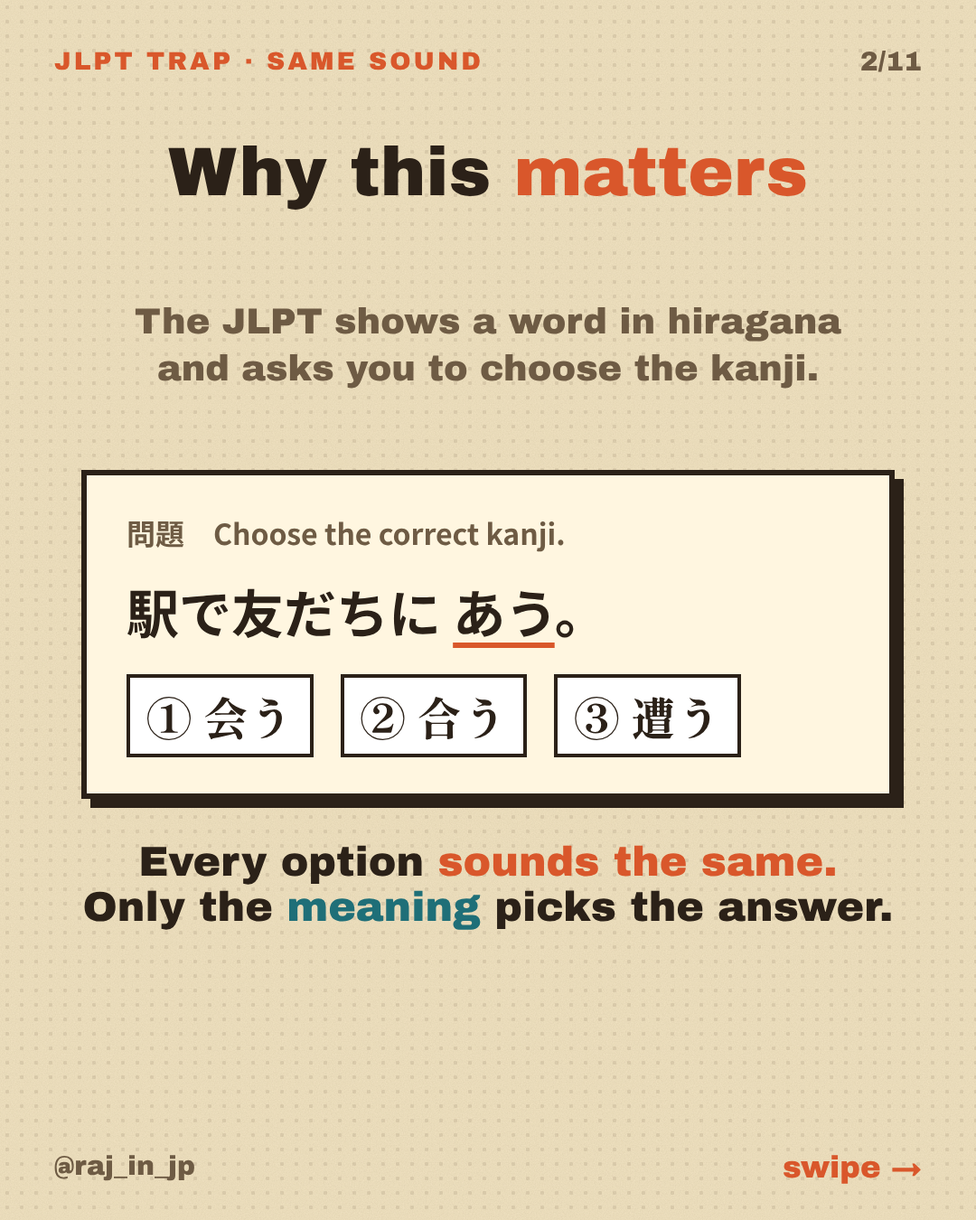
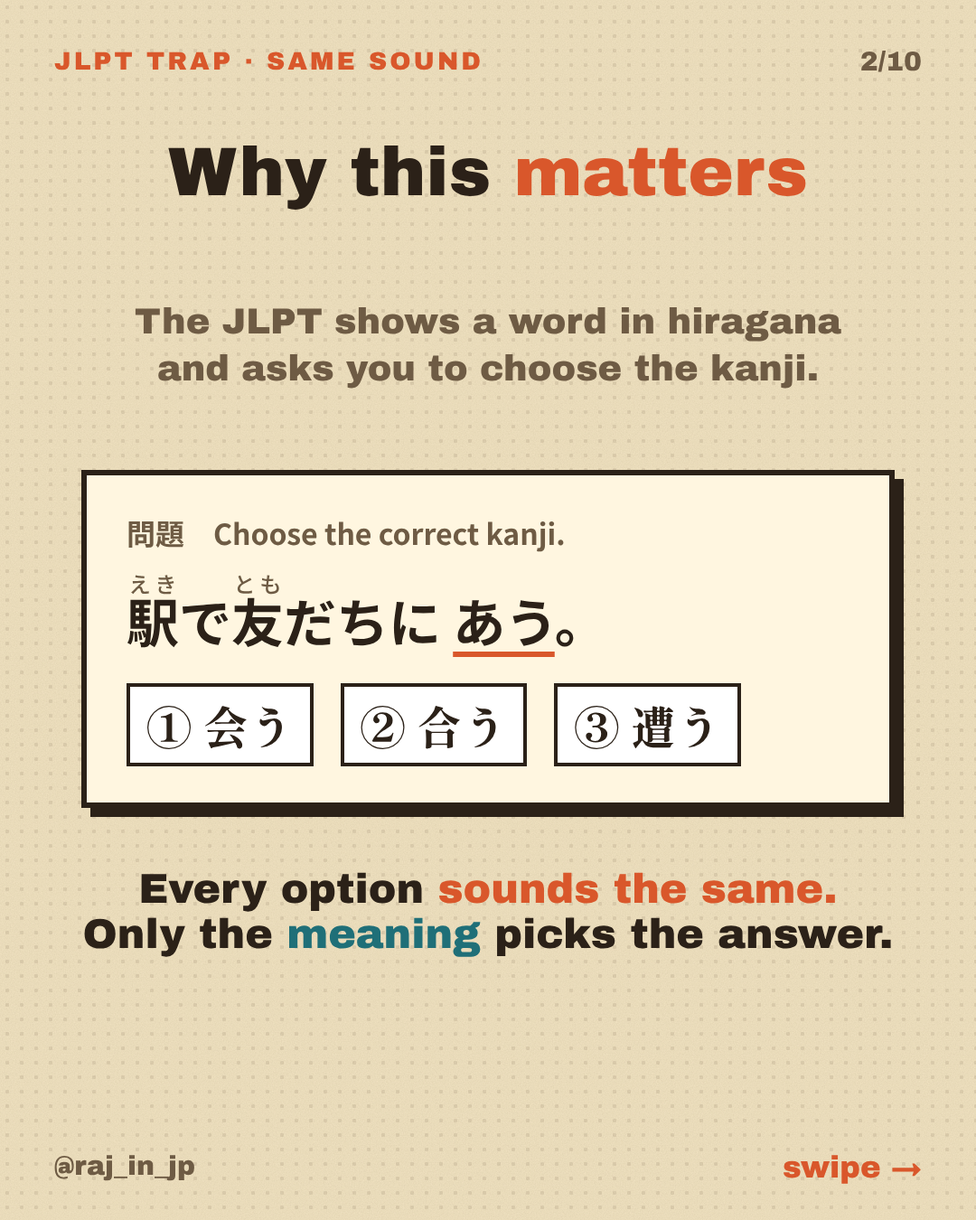
JLPT carousel part 1: focus on あう only, add furigana
Claude-Session: https://claude.ai/code/session_01EaoD2uAGWmKnrxvvdunxK2

Changed region(s): [[0.0611, 0.4667, 0.9167, 0.8089], [0.9167, 0.0311, 0.9472, 0.0622]]

diff --git a/instagram/carousels/jlpt-same-sound-different-kanji/slides.html b/instagram/carousels/jlpt-same-sound-different-kanji/slides.html
@@ -47,98 +47,83 @@ body{background:#888;font-family:Archivo,NotoJP,'Noto Color Emoji',sans-serif;co
 .rs{flex:none;width:210px;background:var(--ink);color:var(--bg);text-align:center;border-radius:999px;font-size:44px;font-weight:900;padding:4px 0 10px}
 .rc{font-size:35px;font-weight:700;white-space:nowrap}
 .btn{border:6px solid var(--ink);box-shadow:8px 8px 0 var(--ink);font-size:52px;padding:22px 44px}
-</style></head><body><section class="s"><div class="grain"></div><div class="tag">JLPT TRAP · SAME SOUND</div><div class="num">1/11</div><div class="hand">@raj_in_jp</div>
+ruby{ruby-position:over} rt{font-family:NotoJP;font-weight:500;font-size:.42em;color:var(--muted);letter-spacing:0}
+.big{position:absolute;left:70px;right:70px;top:150px;height:330px;display:flex;align-items:center;gap:40px;padding:0 44px}
+.bk{font-family:Min;font-size:230px;line-height:1;white-space:nowrap}
+.bk span{font-family:NotoJP;font-weight:500;font-size:70px;color:var(--muted)}
+.bm{font-size:58px;color:var(--acc);line-height:1.05}
+.bp{display:inline-block;margin-top:18px;font-family:NotoJP;font-weight:700;font-size:36px;background:var(--ink);color:var(--bg);padding:6px 22px;border-radius:999px}
+.ex{left:70px;right:70px;padding:26px 40px}
+.ex .js{font-family:NotoJP;font-weight:500;font-size:56px;line-height:1.75}
+.ex .js b{font-weight:900;color:var(--teal)}
+.ex .en{font-size:30px;color:var(--muted)}
+.tip{position:absolute;left:70px;right:70px;text-align:center;font-size:36px;z-index:3}
+.tip span{display:inline-block;background:#fff;border:4px solid var(--ink);border-radius:999px;padding:10px 30px;box-shadow:5px 5px 0 var(--ink)}
+.flow{left:70px;right:70px;padding:16px 36px}
+.fr{display:flex;align-items:center;gap:24px;padding:36px 0;border-bottom:4px dashed rgba(43,33,24,.25)}
+.fr:last-child{border-bottom:none}
+.fq{flex:1;font-size:40px}
+.fa{font-family:Min;font-size:84px;line-height:1;white-space:nowrap}
+.fa span{font-family:NotoJP;font-size:36px;color:var(--muted)}
+.arrow{font-size:50px;color:var(--acc)}
+</style></head><body><section class="s"><div class="grain"></div><div class="tag">JLPT TRAP · SAME SOUND</div><div class="num">1/10</div><div class="hand">@raj_in_jp</div>
 <div class="h" style="top:170px;font-size:104px">SAME SOUND.<br><span class="o">DIFFERENT</span><br>KANJI.</div>
 <div class="h sub" style="top:560px;font-size:42px">The JLPT tests this. Can you pick? 👀</div>
 <div class="sound" style="top:700px">あう</div>
-<div class="fan">
- <div class="opt">会う</div><div class="opt">合う</div><div class="opt">遭う</div>
-</div>
-<div class="h" style="top:1150px;font-size:40px;color:var(--teal)">6 sounds · 15 kanji · 1 trick each</div>
+<div class="fan"><div class="opt">会う</div><div class="opt">合う</div><div class="opt">遭う</div></div>
+<div class="h" style="top:1150px;font-size:40px;color:var(--teal)">Part 1 · あう · 3 kanji, 1 easy trick</div>
 <div class="swipe">swipe →</div></section>
-<section class="s"><div class="grain"></div><div class="tag">JLPT TRAP · SAME SOUND</div><div class="num">2/11</div><div class="hand">@raj_in_jp</div>
+<section class="s"><div class="grain"></div><div class="tag">JLPT TRAP · SAME SOUND</div><div class="num">2/10</div><div class="hand">@raj_in_jp</div>
 <div class="h" style="top:150px;font-size:76px">Why this <span class="o">matters</span></div>
 <div class="h sub" style="top:330px;font-size:40px;line-height:1.3">The JLPT shows a word in hiragana<br>and asks you to choose the kanji.</div>
 <div class="card q">
  <div class="qh">問題　Choose the correct kanji.</div>
- <div class="qs jp">駅で友だちに <u>あう</u>。</div>
+ <div class="qs jp"><ruby>駅<rt>えき</rt></ruby>で<ruby>友<rt>とも</rt></ruby>だちに <u>あう</u>。</div>
  <div class="qo jp"><span>① 会う</span><span>② 合う</span><span>③ 遭う</span></div>
 </div>
-<div class="h" style="top:930px;font-size:46px">Every option <span class="o">sounds the same.</span><br>Only the <span class="t">meaning</span> picks the answer.</div>
+<div class="h" style="top:960px;font-size:46px">Every option <span class="o">sounds the same.</span><br>Only the <span class="t">meaning</span> picks the answer.</div>
 <div class="swipe">swipe →</div></section>
-<section class="s"><div class="grain"></div><div class="tag">JLPT TRAP · SAME SOUND</div><div class="num">3/11</div><div class="hand">@raj_in_jp</div>
-<div class="sound sm" style="top:140px">あう</div>
-<div class="h sub" style="top:300px;font-size:36px">1 sound · 3 kanji</div>
-<div class="card row" style="top:390px;height:255px">
- <div class="kj jp">会<span>う</span></div>
- <div class="info"><div class="mean">meet a person</div><div class="sent jp">駅で友だちに<b>会う</b>。</div><div class="eng">I meet a friend at the station.</div><div class="hint">🔑 会 = meeting → 会社, 会議</div></div></div><div class="card row" style="top:667px;height:255px">
- <div class="kj jp">合<span>う</span></div>
- <div class="info"><div class="mean">fit · match</div><div class="sent jp">靴のサイズが<b>合わない</b>。</div><div class="eng">My shoe size doesn't fit.</div><div class="hint">🔑 合 = fit → 合格 (pass)</div></div></div><div class="card row" style="top:944px;height:255px">
- <div class="kj jp">遭<span>う</span></div>
- <div class="info"><div class="mean">run into trouble</div><div class="sent jp">帰り道で事故に<b>遭った</b>。</div><div class="eng">I had an accident on the way home.</div><div class="hint">🔑 ⻌ = road → trouble on the road</div></div></div><div class="swipe">swipe →</div></section>
-<section class="s"><div class="grain"></div><div class="tag">JLPT TRAP · SAME SOUND</div><div class="num">4/11</div><div class="hand">@raj_in_jp</div>
-<div class="sound sm" style="top:140px">はやい</div>
-<div class="h sub" style="top:300px;font-size:36px">1 sound · 2 kanji</div>
-<div class="card row" style="top:390px;height:330px">
- <div class="kj jp">早<span>い</span></div>
- <div class="info"><div class="mean">early (time)</div><div class="sent jp">朝<b>早く</b>起きる。</div><div class="eng">I wake up early.</div><div class="hint">🔑 日 sun on top → time of day</div></div></div><div class="card row" style="top:742px;height:330px">
- <div class="kj jp">速<span>い</span></div>
- <div class="info"><div class="mean">fast (speed)</div><div class="sent jp">新幹線はとても<b>速い</b>。</div><div class="eng">The shinkansen is very fast.</div><div class="hint">🔑 ⻌ = moving → speed</div></div></div><div class="swipe">swipe →</div></section>
-<section class="s"><div class="grain"></div><div class="tag">JLPT TRAP · SAME SOUND</div><div class="num">5/11</div><div class="hand">@raj_in_jp</div>
-<div class="sound sm" style="top:140px">あつい</div>
-<div class="h sub" style="top:300px;font-size:36px">1 sound · 3 kanji</div>
-<div class="card row" style="top:390px;height:255px">
- <div class="kj jp">暑<span>い</span></div>
- <div class="info"><div class="mean">hot weather</div><div class="sent jp">今日は<b>暑い</b>ですね。</div><div class="eng">It's hot today, isn't it?</div><div class="hint">🔑 日 sun on top → weather</div></div></div><div class="card row" style="top:667px;height:255px">
- <div class="kj jp">熱<span>い</span></div>
- <div class="info"><div class="mean">hot to touch</div><div class="sent jp">このお茶は<b>熱い</b>。</div><div class="eng">This tea is hot.</div><div class="hint">🔑 灬 fire at the bottom → things</div></div></div><div class="card row" style="top:944px;height:255px">
- <div class="kj jp">厚<span>い</span></div>
- <div class="info"><div class="mean">thick</div><div class="sent jp"><b>厚い</b>本を読んでいる。</div><div class="eng">I'm reading a thick book.</div><div class="hint">🔑 not temperature at all!</div></div></div><div class="swipe">swipe →</div></section>
-<section class="s"><div class="grain"></div><div class="tag">JLPT TRAP · SAME SOUND</div><div class="num">6/11</div><div class="hand">@raj_in_jp</div>
-<div class="sound sm" style="top:140px">はかる</div>
-<div class="h sub" style="top:300px;font-size:36px">1 sound · 3 kanji</div>
-<div class="card row" style="top:390px;height:255px">
- <div class="kj jp">計<span>る</span></div>
- <div class="info"><div class="mean">time · numbers</div><div class="sent jp">時間を<b>計る</b>。</div><div class="eng">I time it.</div><div class="hint">🔑 計 → 時計 (clock)</div></div></div><div class="card row" style="top:667px;height:255px">
- <div class="kj jp">測<span>る</span></div>
- <div class="info"><div class="mean">length · height</div><div class="sent jp">部屋の長さを<b>測る</b>。</div><div class="eng">I measure the room's length.</div><div class="hint">🔑 測 → 測定 (measurement)</div></div></div><div class="card row" style="top:944px;height:255px">
- <div class="kj jp">量<span>る</span></div>
- <div class="info"><div class="mean">weight · amount</div><div class="sent jp">体重を<b>量る</b>。</div><div class="eng">I weigh myself.</div><div class="hint">🔑 量 = amount → 分量</div></div></div><div class="swipe">swipe →</div></section>
-<section class="s"><div class="grain"></div><div class="tag">JLPT TRAP · SAME SOUND</div><div class="num">7/11</div><div class="hand">@raj_in_jp</div>
-<div class="sound sm" style="top:140px">とる</div>
-<div class="h sub" style="top:300px;font-size:36px">1 sound · 3 kanji</div>
-<div class="card row" style="top:390px;height:255px">
- <div class="kj jp">取<span>る</span></div>
- <div class="info"><div class="mean">take · get</div><div class="sent jp">メモを<b>取る</b>。</div><div class="eng">I take notes.</div><div class="hint">🔑 the everyday &#x27;take&#x27;</div></div></div><div class="card row" style="top:667px;height:255px">
- <div class="kj jp">撮<span>る</span></div>
- <div class="info"><div class="mean">take a photo/video</div><div class="sent jp">写真を<b>撮る</b>。</div><div class="eng">I take a photo.</div><div class="hint">🔑 撮 → 撮影 (filming)</div></div></div><div class="card row" style="top:944px;height:255px">
- <div class="kj jp">採<span>る</span></div>
- <div class="info"><div class="mean">hire · pick</div><div class="sent jp">新しい社員を<b>採る</b>。</div><div class="eng">We hire new staff.</div><div class="hint">🔑 採 → 採用 (hiring)</div></div></div><div class="swipe">swipe →</div></section>
-<section class="s"><div class="grain"></div><div class="tag">JLPT TRAP · SAME SOUND</div><div class="num">8/11</div><div class="hand">@raj_in_jp</div>
-<div class="sound sm" style="top:140px">かえる</div>
-<div class="h sub" style="top:300px;font-size:36px">1 sound · 2 kanji</div>
-<div class="card row" style="top:390px;height:330px">
- <div class="kj jp">帰<span>る</span></div>
- <div class="info"><div class="mean">go home</div><div class="sent jp">家に<b>帰る</b>。</div><div class="eng">I go home.</div><div class="hint">🔑 帰 → 帰国 (return to your country)</div></div></div><div class="card row" style="top:742px;height:330px">
- <div class="kj jp">変<span>える</span></div>
- <div class="info"><div class="mean">change</div><div class="sent jp">予定を<b>変える</b>。</div><div class="eng">I change my plans.</div><div class="hint">🔑 変 → 変化 (change)</div></div></div><div class="swipe">swipe →</div></section>
-<section class="s"><div class="grain"></div><div class="tag">QUICK TEST</div><div class="num">9/11</div><div class="hand">@raj_in_jp</div>
+<section class="s"><div class="grain"></div><div class="tag">あう · 1 OF 3</div><div class="num">3/10</div><div class="hand">@raj_in_jp</div>
+<div class="card big"><div class="bk">会<span>う</span></div><div><div class="bm">meet a person</div><div class="bp">〜に会う / 〜と会う</div></div></div>
+<div class="card ex" style="top:560px"><div class="js"><ruby>駅<rt>えき</rt></ruby>で<ruby>友<rt>とも</rt></ruby>だちに<b><ruby>会<rt>あ</rt></ruby>う</b>。</div><div class="en">I meet a friend at the station.</div></div><div class="card ex" style="top:835px"><div class="js"><ruby>明日<rt>あした</rt></ruby>、<ruby>先生<rt>せんせい</rt></ruby>に<b><ruby>会<rt>あ</rt></ruby>います</b>。</div><div class="en">I'll meet my teacher tomorrow.</div></div><div class="tip" style="top:1140px"><span>🔑 会 → 会社 · 会議 · always PEOPLE</span></div><div class="swipe">swipe →</div></section>
+<section class="s"><div class="grain"></div><div class="tag">あう · 2 OF 3</div><div class="num">4/10</div><div class="hand">@raj_in_jp</div>
+<div class="card big"><div class="bk">合<span>う</span></div><div><div class="bm">fit · match</div><div class="bp">〜が合う</div></div></div>
+<div class="card ex" style="top:560px"><div class="js"><ruby>靴<rt>くつ</rt></ruby>のサイズが<b><ruby>合<rt>あ</rt></ruby>わない</b>。</div><div class="en">My shoe size doesn't fit.</div></div><div class="card ex" style="top:835px"><div class="js"><ruby>答<rt>こた</rt></ruby>えが<b><ruby>合<rt>あ</rt></ruby>って</b>いる。</div><div class="en">The answer is correct.</div></div><div class="tip" style="top:1140px"><span>🔑 合 → 合格 (pass) · 試合 (match)</span></div><div class="swipe">swipe →</div></section>
+<section class="s"><div class="grain"></div><div class="tag">あう · 3 OF 3</div><div class="num">5/10</div><div class="hand">@raj_in_jp</div>
+<div class="card big"><div class="bk">遭<span>う</span></div><div><div class="bm">run into something bad</div><div class="bp">〜に遭う</div></div></div>
+<div class="card ex" style="top:560px"><div class="js"><ruby>帰<rt>かえ</rt></ruby>り<ruby>道<rt>みち</rt></ruby>で<ruby>事故<rt>じこ</rt></ruby>に<b><ruby>遭<rt>あ</rt></ruby>った</b>。</div><div class="en">I had an accident on the way home.</div></div><div class="card ex" style="top:835px"><div class="js"><ruby>旅行<rt>りょこう</rt></ruby><ruby>中<rt>ちゅう</rt></ruby>に<ruby>地震<rt>じしん</rt></ruby>に<b><ruby>遭<rt>あ</rt></ruby>った</b>。</div><div class="en">I was hit by an earthquake on my trip.</div></div><div class="tip" style="top:1140px"><span>🔑 ⻌ = road → trouble you meet on the road</span></div><div class="swipe">swipe →</div></section>
+<section class="s"><div class="grain"></div><div class="tag">THE 1-SECOND TRICK</div><div class="num">6/10</div><div class="hand">@raj_in_jp</div>
+<div class="h" style="top:150px;font-size:76px">Ask <span class="o">one</span> question</div>
+<div class="h sub" style="top:260px;font-size:42px">What are you meeting?</div>
+<div class="card flow" style="top:380px">
+ <div class="fr"><div class="fq">👤 a person</div><div class="arrow">→</div><div class="fa">会<span>う</span></div></div>
+ <div class="fr"><div class="fq">🧩 something fits or matches</div><div class="arrow">→</div><div class="fa">合<span>う</span></div></div>
+ <div class="fr"><div class="fq">⚠ something bad happens</div><div class="arrow">→</div><div class="fa">遭<span>う</span></div></div>
+</div>
+<div class="h" style="top:1120px;font-size:48px"><span class="o">Person</span> · <span class="t">Fit</span> · Trouble</div>
+<div class="swipe">swipe →</div></section>
+<section class="s"><div class="grain"></div><div class="tag">BONUS</div><div class="num">7/10</div><div class="hand">@raj_in_jp</div>
+<div class="card big" style="top:170px"><div class="bk">逢<span>う</span></div><div><div class="bm">a special, fated meeting</div><div class="bp">songs · dramas · novels</div></div></div>
+<div class="card ex" style="top:560px"><div class="js">また<b><ruby>逢<rt>あ</rt></ruby>う</b><ruby>日<rt>ひ</rt></ruby>まで</div><div class="en">"Until the day we meet again" · a famous 1971 song title</div></div>
+<div class="h" style="top:850px;font-size:44px;line-height:1.25">逢 is <span class="o">not a jōyō kanji</span>,<br>so the JLPT won't ask you to pick it.<br><span class="sub" style="font-size:36px">But now you'll recognise it in lyrics 🎵</span></div>
+<div class="swipe">swipe →</div></section>
+<section class="s"><div class="grain"></div><div class="tag">QUICK TEST</div><div class="num">8/10</div><div class="hand">@raj_in_jp</div>
 <div class="h" style="top:150px;font-size:86px">Your <span class="o">turn</span> ✍</div>
 <div class="h sub" style="top:280px;font-size:40px">Pick the right kanji.</div>
-<div class="card qz" style="top:390px"><div class="qn">1</div><div><div class="qs jp">お風呂のお湯が <u>あつい</u>。</div><div class="qo jp"><span>Ⓐ 暑い</span><span>Ⓑ 熱い</span><span>Ⓒ 厚い</span></div></div></div>
-<div class="card qz" style="top:640px"><div class="qn">2</div><div><div class="qs jp">マラソンの時間を <u>はかる</u>。</div><div class="qo jp"><span>Ⓐ 計る</span><span>Ⓑ 測る</span><span>Ⓒ 量る</span></div></div></div>
-<div class="card qz" style="top:890px"><div class="qn">3</div><div><div class="qs jp">旅行で写真を <u>とった</u>。</div><div class="qo jp"><span>Ⓐ 取った</span><span>Ⓑ 撮った</span><span>Ⓒ 採った</span></div></div></div>
-<div class="h" style="top:1150px;font-size:40px">Comment your answers 👇 <span class="t">(like 1A 2B 3C)</span></div>
-<div class="swipe">swipe →</div></section>
-<section class="s"><div class="grain"></div><div class="tag">SCREENSHOT THIS 📸</div><div class="num">10/11</div><div class="hand">@raj_in_jp</div>
+<div class="card qz" style="top:380px"><div class="qn">1</div><div><div class="qs jp" style="line-height:1.6">この<ruby>服<rt>ふく</rt></ruby>はサイズがぴったり <u>あう</u>。</div><div class="qo jp"><span>Ⓐ 会う</span><span>Ⓑ 合う</span><span>Ⓒ 遭う</span></div></div></div><div class="card qz" style="top:630px"><div class="qn">2</div><div><div class="qs jp" style="line-height:1.6"><ruby>旅行<rt>りょこう</rt></ruby><ruby>先<rt>さき</rt></ruby>で<ruby>事故<rt>じこ</rt></ruby>に <u>あった</u>。</div><div class="qo jp"><span>Ⓐ 会った</span><span>Ⓑ 合った</span><span>Ⓒ 遭った</span></div></div></div><div class="card qz" style="top:880px"><div class="qn">3</div><div><div class="qs jp" style="line-height:1.6"><ruby>久<rt>ひさ</rt></ruby>しぶりに<ruby>母<rt>はは</rt></ruby>に <u>あった</u>。</div><div class="qo jp"><span>Ⓐ 会った</span><span>Ⓑ 合った</span><span>Ⓒ 遭った</span></div></div></div><div class="h" style="top:1150px;font-size:40px">Comment your answers 👇 <span class="t">(like 1A 2A 3A)</span></div><div class="swipe">swipe →</div></section>
+<section class="s"><div class="grain"></div><div class="tag">SCREENSHOT THIS 📸</div><div class="num">9/10</div><div class="hand">@raj_in_jp</div>
 <div class="h" style="top:150px;font-size:80px">The <span class="o">cheat sheet</span></div>
-<div class="card recap"><div class="rr"><div class="rs jp">あう</div><div class="rc jp">会 person · 合 fit · 遭 trouble</div></div><div class="rr"><div class="rs jp">はやい</div><div class="rc jp">早 time · 速 speed</div></div><div class="rr"><div class="rs jp">あつい</div><div class="rc jp">暑 weather · 熱 touch · 厚 thick</div></div><div class="rr"><div class="rs jp">はかる</div><div class="rc jp">計 time · 測 length · 量 weight</div></div><div class="rr"><div class="rs jp">とる</div><div class="rc jp">取 take · 撮 photo · 採 hire</div></div><div class="rr"><div class="rs jp">かえる</div><div class="rc jp">帰 go home · 変 change</div></div></div>
-<div class="h sub" style="top:1190px;font-size:34px">Person? Time? Speed? Weight? → pick the kanji.</div>
+<div class="card flow" style="top:320px">
+ <div class="fr"><div class="fa">会<span>う</span></div><div class="fq jp" style="font-size:38px">a person<br><span style="font-weight:500;color:var(--muted)"><ruby>友<rt>とも</rt></ruby>だちに<ruby>会<rt>あ</rt></ruby>う</span></div></div>
+ <div class="fr"><div class="fa">合<span>う</span></div><div class="fq jp" style="font-size:38px">fits · matches<br><span style="font-weight:500;color:var(--muted)">サイズが<ruby>合<rt>あ</rt></ruby>う</span></div></div>
+ <div class="fr"><div class="fa">遭<span>う</span></div><div class="fq jp" style="font-size:38px">trouble<br><span style="font-weight:500;color:var(--muted)"><ruby>事故<rt>じこ</rt></ruby>に<ruby>遭<rt>あ</rt></ruby>う</span></div></div>
+ <div class="fr"><div class="fa" style="opacity:.55">逢<span>う</span></div><div class="fq jp" style="font-size:34px;color:var(--muted)">bonus · songs &amp; dramas</div></div>
+</div>
 <div class="swipe">swipe →</div></section>
-<section class="s"><div class="grain"></div><div class="tag">NIHONGO × JLPT</div><div class="num">11/11</div><div class="hand">@raj_in_jp</div>
+<section class="s"><div class="grain"></div><div class="tag">NIHONGO × JLPT</div><div class="num">10/10</div><div class="hand">@raj_in_jp</div>
 <img src="logo.png" style="position:absolute;left:50%;top:170px;width:260px;margin-left:-130px;border-radius:50%">
 <div class="h" style="top:490px;font-size:76px">Save this for<br><span class="o">exam day</span> 📌</div>
-<div class="h sub" style="top:720px;font-size:42px;line-height:1.3">Part 2 next: more JLPT traps.<br>Free JLPT notes → link in bio</div>
+<div class="h sub" style="top:720px;font-size:42px;line-height:1.3">Part 2 next: はやい · 早い or 速い?<br>Free JLPT notes → link in bio</div>
 <div style="position:absolute;top:960px;left:0;right:0;display:flex;justify-content:center;gap:40px">
  <div class="btn" style="background:var(--card)">📌 Save</div><div class="btn" style="background:var(--acc);color:#fff">+ Follow</div></div>
 </section></body></html>

diff --git a/instagram/carousels/jlpt-same-sound-different-kanji/style.css b/instagram/carousels/jlpt-same-sound-different-kanji/style.css
@@ -47,3 +47,22 @@ body{background:#888;font-family:Archivo,NotoJP,'Noto Color Emoji',sans-serif;co
 .rs{flex:none;width:210px;background:var(--ink);color:var(--bg);text-align:center;border-radius:999px;font-size:44px;font-weight:900;padding:4px 0 10px}
 .rc{font-size:35px;font-weight:700;white-space:nowrap}
 .btn{border:6px solid var(--ink);box-shadow:8px 8px 0 var(--ink);font-size:52px;padding:22px 44px}
+ruby{ruby-position:over} rt{font-family:NotoJP;font-weight:500;font-size:.42em;color:var(--muted);letter-spacing:0}
+.big{position:absolute;left:70px;right:70px;top:150px;height:330px;display:flex;align-items:center;gap:40px;padding:0 44px}
+.bk{font-family:Min;font-size:230px;line-height:1;white-space:nowrap}
+.bk span{font-family:NotoJP;font-weight:500;font-size:70px;color:var(--muted)}
+.bm{font-size:58px;color:var(--acc);line-height:1.05}
+.bp{display:inline-block;margin-top:18px;font-family:NotoJP;font-weight:700;font-size:36px;background:var(--ink);color:var(--bg);padding:6px 22px;border-radius:999px}
+.ex{left:70px;right:70px;padding:26px 40px}
+.ex .js{font-family:NotoJP;font-weight:500;font-size:56px;line-height:1.75}
+.ex .js b{font-weight:900;color:var(--teal)}
+.ex .en{font-size:30px;color:var(--muted)}
+.tip{position:absolute;left:70px;right:70px;text-align:center;font-size:36px;z-index:3}
+.tip span{display:inline-block;background:#fff;border:4px solid var(--ink);border-radius:999px;padding:10px 30px;box-shadow:5px 5px 0 var(--ink)}
+.flow{left:70px;right:70px;padding:16px 36px}
+.fr{display:flex;align-items:center;gap:24px;padding:36px 0;border-bottom:4px dashed rgba(43,33,24,.25)}
+.fr:last-child{border-bottom:none}
+.fq{flex:1;font-size:40px}
+.fa{font-family:Min;font-size:84px;line-height:1;white-space:nowrap}
+.fa span{font-family:NotoJP;font-size:36px;color:var(--muted)}
+.arrow{font-size:50px;color:var(--acc)}

diff --git a/instagram/carousels/jlpt-same-sound-different-kanji/build2.py b/instagram/carousels/jlpt-same-sound-different-kanji/build2.py
@@ -1,0 +1,85 @@
+import re
+TOTAL=10
+def rb(s):  # {漢字|かな} -> ruby
+    return re.sub(r'\{([^|}]+)\|([^}]+)\}',r'<ruby>\1<rt>\2</rt></ruby>',s)
+def head(i,tag="JLPT TRAP · SAME SOUND"):
+    return f'<div class="grain"></div><div class="tag">{tag}</div><div class="num">{i}/{TOTAL}</div><div class="hand">@raj_in_jp</div>'
+sw='<div class="swipe">swipe →</div>'
+out=[]
+out.append(f'''<section class="s">{head(1)}
+<div class="h" style="top:170px;font-size:104px">SAME SOUND.<br><span class="o">DIFFERENT</span><br>KANJI.</div>
+<div class="h sub" style="top:560px;font-size:42px">The JLPT tests this. Can you pick? 👀</div>
+<div class="sound" style="top:700px">あう</div>
+<div class="fan"><div class="opt">会う</div><div class="opt">合う</div><div class="opt">遭う</div></div>
+<div class="h" style="top:1150px;font-size:40px;color:var(--teal)">Part 1 · あう · 3 kanji, 1 easy trick</div>
+{sw}</section>''')
+out.append(f'''<section class="s">{head(2)}
+<div class="h" style="top:150px;font-size:76px">Why this <span class="o">matters</span></div>
+<div class="h sub" style="top:330px;font-size:40px;line-height:1.3">The JLPT shows a word in hiragana<br>and asks you to choose the kanji.</div>
+<div class="card q">
+ <div class="qh">問題　Choose the correct kanji.</div>
+ <div class="qs jp">{rb("{駅|えき}で{友|とも}だちに <u>あう</u>。")}</div>
+ <div class="qo jp"><span>① 会う</span><span>② 合う</span><span>③ 遭う</span></div>
+</div>
+<div class="h" style="top:960px;font-size:46px">Every option <span class="o">sounds the same.</span><br>Only the <span class="t">meaning</span> picks the answer.</div>
+{sw}</section>''')
+K=[("会","meet a person","〜に会う / 〜と会う",
+    [("{駅|えき}で{友|とも}だちに<b>{会|あ}う</b>。","I meet a friend at the station."),
+     ("{明日|あした}、{先生|せんせい}に<b>{会|あ}います</b>。","I'll meet my teacher tomorrow.")],
+    "🔑 会 → 会社 · 会議 · always PEOPLE"),
+   ("合","fit · match","〜が合う",
+    [("{靴|くつ}のサイズが<b>{合|あ}わない</b>。","My shoe size doesn't fit."),
+     ("{答|こた}えが<b>{合|あ}って</b>いる。","The answer is correct.")],
+    "🔑 合 → 合格 (pass) · 試合 (match)"),
+   ("遭","run into something bad","〜に遭う",
+    [("{帰|かえ}り{道|みち}で{事故|じこ}に<b>{遭|あ}った</b>。","I had an accident on the way home."),
+     ("{旅行|りょこう}{中|ちゅう}に{地震|じしん}に<b>{遭|あ}った</b>。","I was hit by an earthquake on my trip.")],
+    "🔑 ⻌ = road → trouble you meet on the road")]
+for n,(k,m,p,exs,tip) in enumerate(K):
+    i=n+3
+    e=''.join(f'<div class="card ex" style="top:{560+j*275}px"><div class="js">{rb(a)}</div><div class="en">{b}</div></div>' for j,(a,b) in enumerate(exs))
+    out.append(f'''<section class="s">{head(i,f"あう · {n+1} OF 3")}
+<div class="card big"><div class="bk">{k}<span>う</span></div><div><div class="bm">{m}</div><div class="bp">{p}</div></div></div>
+{e}<div class="tip" style="top:1140px"><span>{tip}</span></div>{sw}</section>''')
+out.append(f'''<section class="s">{head(6,"THE 1-SECOND TRICK")}
+<div class="h" style="top:150px;font-size:76px">Ask <span class="o">one</span> question</div>
+<div class="h sub" style="top:260px;font-size:42px">What are you meeting?</div>
+<div class="card flow" style="top:380px">
+ <div class="fr"><div class="fq">👤 a person</div><div class="arrow">→</div><div class="fa">会<span>う</span></div></div>
+ <div class="fr"><div class="fq">🧩 something fits or matches</div><div class="arrow">→</div><div class="fa">合<span>う</span></div></div>
+ <div class="fr"><div class="fq">⚠ something bad happens</div><div class="arrow">→</div><div class="fa">遭<span>う</span></div></div>
+</div>
+<div class="h" style="top:1120px;font-size:48px"><span class="o">Person</span> · <span class="t">Fit</span> · Trouble</div>
+{sw}</section>''')
+out.append(f'''<section class="s">{head(7,"BONUS")}
+<div class="card big" style="top:170px"><div class="bk">逢<span>う</span></div><div><div class="bm">a special, fated meeting</div><div class="bp">songs · dramas · novels</div></div></div>
+<div class="card ex" style="top:560px"><div class="js">また<b>{rb("{逢|あ}う")}</b>{rb("{日|ひ}")}まで</div><div class="en">"Until the day we meet again" · a famous 1971 song title</div></div>
+<div class="h" style="top:850px;font-size:44px;line-height:1.25">逢 is <span class="o">not a jōyō kanji</span>,<br>so the JLPT won't ask you to pick it.<br><span class="sub" style="font-size:36px">But now you'll recognise it in lyrics 🎵</span></div>
+{sw}</section>''')
+Q=[("この{服|ふく}はサイズがぴったり <u>あう</u>。"),("{旅行|りょこう}{先|さき}で{事故|じこ}に <u>あった</u>。"),("{久|ひさ}しぶりに{母|はは}に <u>あった</u>。")]
+qs=''
+for j,q in enumerate(Q):
+    oku='う' if j==0 else 'った'
+    qs+=f'<div class="card qz" style="top:{380+j*250}px"><div class="qn">{j+1}</div><div><div class="qs jp" style="line-height:1.6">{rb(q)}</div><div class="qo jp"><span>Ⓐ 会{oku}</span><span>Ⓑ 合{oku}</span><span>Ⓒ 遭{oku}</span></div></div></div>'
+out.append(f'''<section class="s">{head(8,"QUICK TEST")}
+<div class="h" style="top:150px;font-size:86px">Your <span class="o">turn</span> ✍</div>
+<div class="h sub" style="top:280px;font-size:40px">Pick the right kanji.</div>
+{qs}<div class="h" style="top:1150px;font-size:40px">Comment your answers 👇 <span class="t">(like 1A 2A 3A)</span></div>{sw}</section>''')
+out.append(f'''<section class="s">{head(9,"SCREENSHOT THIS 📸")}
+<div class="h" style="top:150px;font-size:80px">The <span class="o">cheat sheet</span></div>
+<div class="card flow" style="top:320px">
+ <div class="fr"><div class="fa">会<span>う</span></div><div class="fq jp" style="font-size:38px">a person<br><span style="font-weight:500;color:var(--muted)">{rb("{友|とも}だちに{会|あ}う")}</span></div></div>
+ <div class="fr"><div class="fa">合<span>う</span></div><div class="fq jp" style="font-size:38px">fits · matches<br><span style="font-weight:500;color:var(--muted)">{rb("サイズが{合|あ}う")}</span></div></div>
+ <div class="fr"><div class="fa">遭<span>う</span></div><div class="fq jp" style="font-size:38px">trouble<br><span style="font-weight:500;color:var(--muted)">{rb("{事故|じこ}に{遭|あ}う")}</span></div></div>
+ <div class="fr"><div class="fa" style="opacity:.55">逢<span>う</span></div><div class="fq jp" style="font-size:34px;color:var(--muted)">bonus · songs &amp; dramas</div></div>
+</div>
+{sw}</section>''')
+out.append(f'''<section class="s">{head(10,"NIHONGO × JLPT")}
+<img src="logo.png" style="position:absolute;left:50%;top:170px;width:260px;margin-left:-130px;border-radius:50%">
+<div class="h" style="top:490px;font-size:76px">Save this for<br><span class="o">exam day</span> 📌</div>
+<div class="h sub" style="top:720px;font-size:42px;line-height:1.3">Part 2 next: はやい · 早い or 速い?<br>Free JLPT notes → link in bio</div>
+<div style="position:absolute;top:960px;left:0;right:0;display:flex;justify-content:center;gap:40px">
+ <div class="btn" style="background:var(--card)">📌 Save</div><div class="btn" style="background:var(--acc);color:#fff">+ Follow</div></div>
+</section>''')
+css=open('style.css').read()
+open('slides.html','w').write(f'<!doctype html><html><head><meta charset="utf-8"><style>{css}</style></head><body>'+'\n'.join(out)+'</body></html>')
